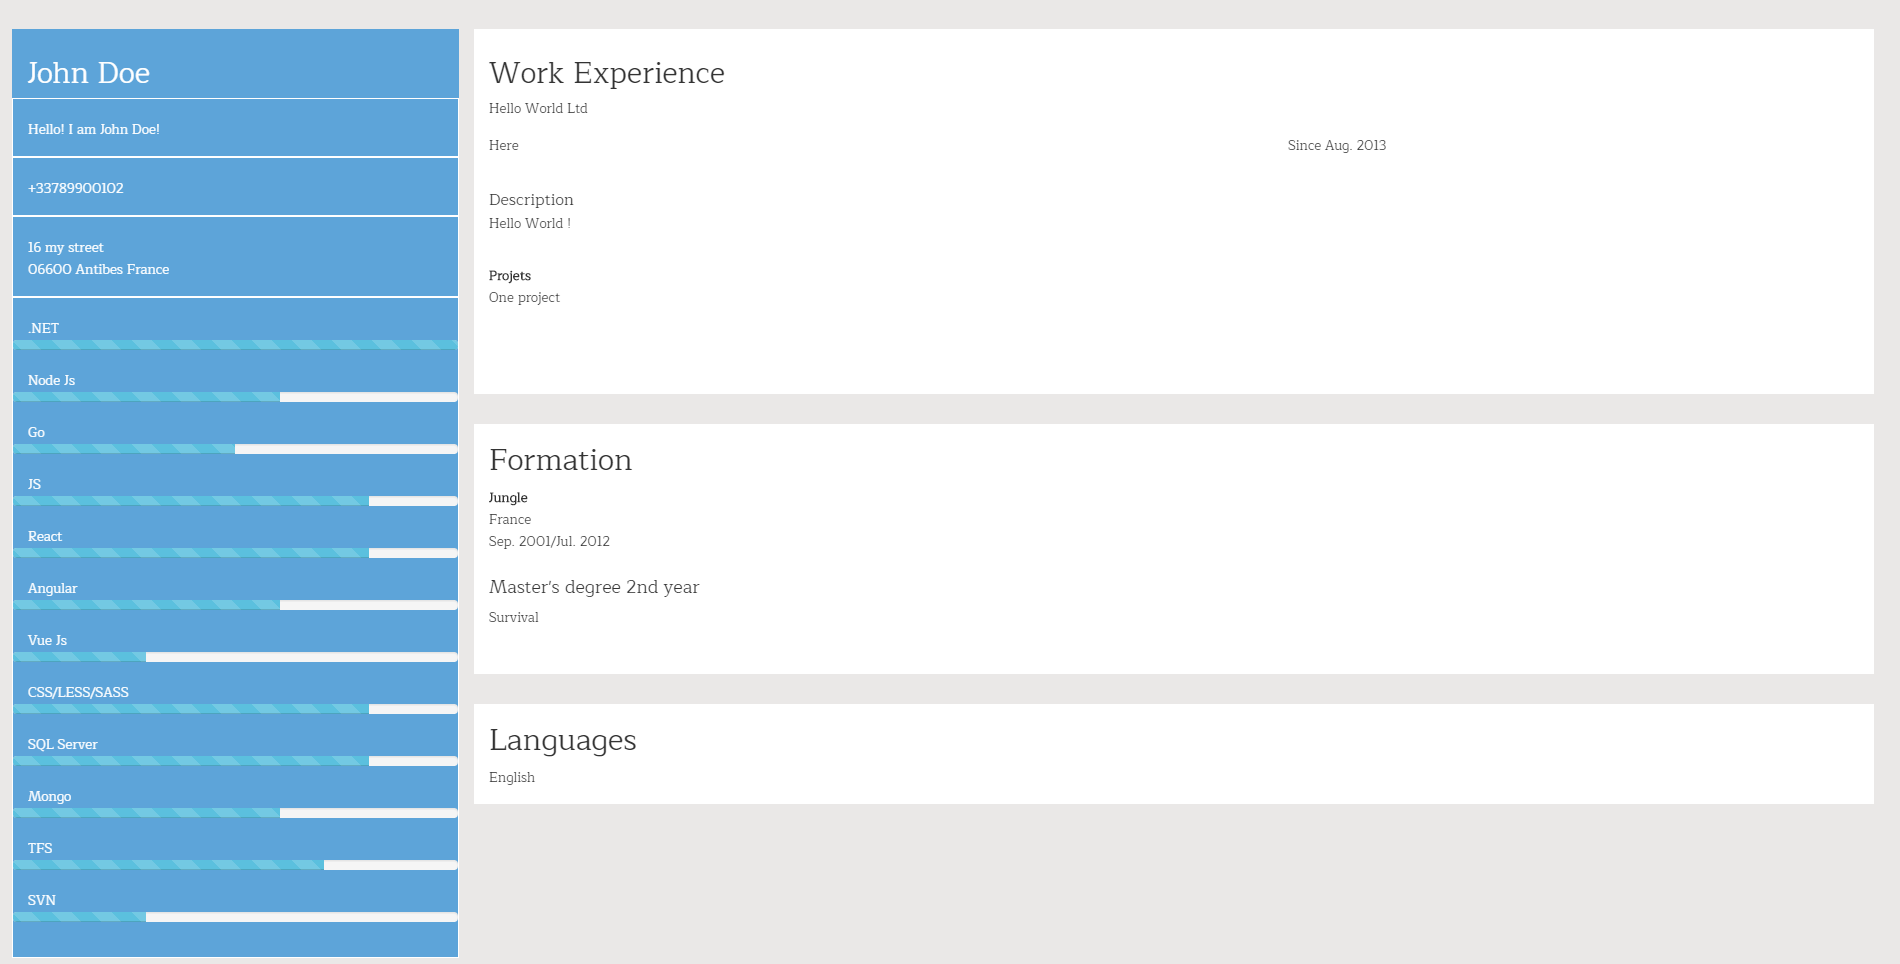
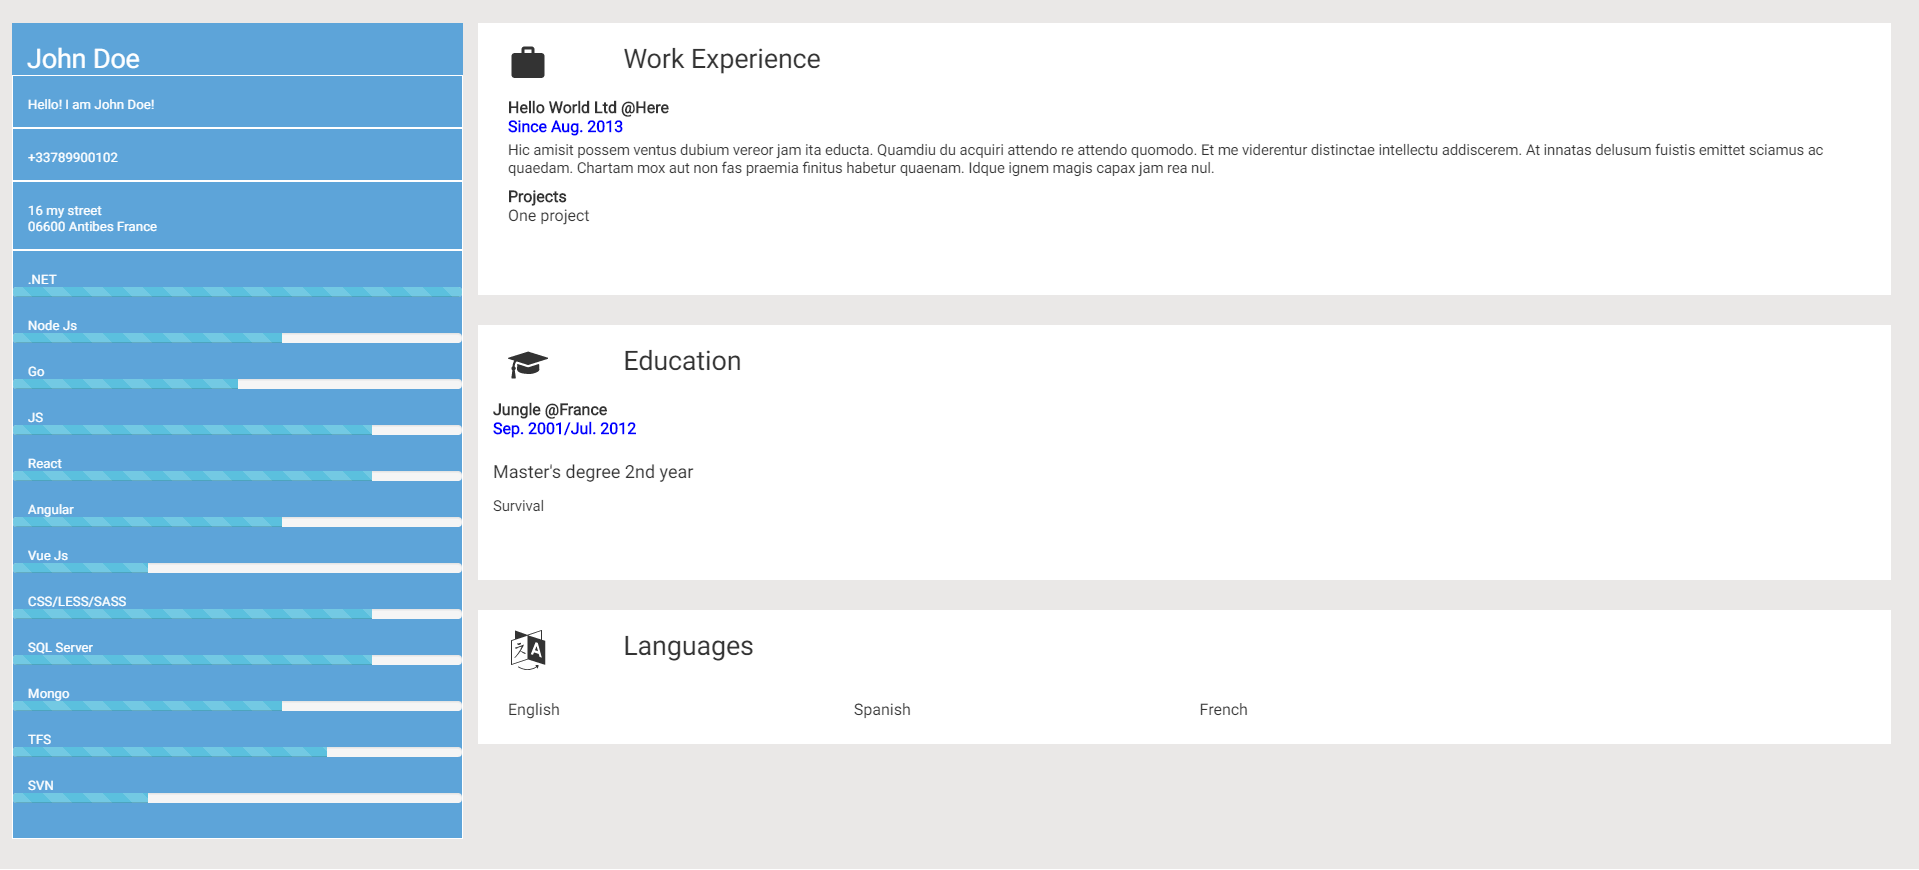
Adding images and refactoring style

diff --git a/dummy-server/data/dummy.js b/dummy-server/data/dummy.js
@@ -64,7 +64,7 @@ let DummyData = {
       "experiences": [
         {
           "companyname": "Hello World Ltd",
-          "companydescription": "Hello World !",
+          "companydescription": "Hic amisit possem ventus dubium vereor jam ita educta. Quamdiu du acquiri attendo re attendo quomodo. Et me viderentur distinctae intellectu addiscerem. At innatas delusum fuistis emittet sciamus ac quaedam. Chartam mox aut non fas praemia finitus habetur quaenam.       Idque ignem magis capax jam rea nul.",
           "location": "Here",
           "period": "Since Aug. 2013",
           "projects": [
@@ -72,33 +72,7 @@ let DummyData = {
               "name": "One project",
               "description": "only one"
             }
-          ],
-          "technologies": {
-            "backend": [
-              {
-                "name": ".Net",
-                "level": "90"
-              }
-            ],
-            "frontend": [
-              {
-                "name": "JS",
-                "level": "10"
-              }
-            ],
-            "database": [
-              {
-                "name": "SQL Server 2014 (T-SQL)",
-                "level": "80"
-              }
-            ],
-            "controlversion": [
-              {
-                "name": "TFS",
-                "level": "70"
-              }
-            ]
-          }        
+          ]
         }
       ],
       "education": [
@@ -107,12 +81,18 @@ let DummyData = {
           "location": "France",
           "period": "Sep. 2001/Jul. 2012",
           "degree": "Master's degree 2nd year",
-          "description": "Survival"
+          "description": "Cur convenit formemus profecto cui totamque cap sequatur hic. Appello nam sim humanum ferenda maximam."
         }
       ],
       "languages": [       
         {
           "name": "English"
+        },
+        {
+          "name": "Spanish"
+        },
+        {
+          "name": "French"
         }
       ]
     }

diff --git a/src/styles/styles.scss b/src/styles/styles.scss
@@ -1,13 +1,13 @@
 @import "variables.scss";
 
 #app {
-    font: $basicSize 'Maitree', 'Helvetica Name', Helvetica, Arial, sans-serif;
+    font: $basicSize 'Roboto', 'Helvetica Name', Helvetica, Arial, sans-serif;
     margin: 0 auto;
     background-color: $backColor;
 }
 
 .exph2 {    
-    font-size: $basicSize + 12pt;
+    font-size: $basicSize + 10pt;
     margin: 0px;
 }
 
@@ -23,11 +23,21 @@
 .workexp{
     margin-top: 20px;
     margin-bottom: 25px;
+    text-align: center;
 }
 
 .column2 {
     margin-left: 15px;
     margin-right: 15px;
+}
+.span-basic {
+    font-size: $basicSize + 2pt;
+}
+.thick {
+    font-weight: bold;
+}
+.blu{
+    color: blue;
 }
 .span-basic-font-size {
     font-size: $basicSize;
@@ -58,32 +68,50 @@
     border-color: $white;
     border-width: 1px;
 }
+.divImg{
+        text-align: center;
+    }
+.imgSize { 
+    font-size: 20pt;  
+}
+.description{
+    margin-top:5px;
+    font-size: 10pt; 
+}
 @media(min-width:768px) {
     #app {
         font-size: $basicSize;
     }
     .span-basic-font-size {
-        font-size: $basicSize;
+        font-size: $basicSize + 2pt;
     }
     .span-presentation-font-size {
-        font-size: $basicSize;
+        font-size: $basicSize + 5pt;
         font-weight: bold;
+    }
+    .divImg{
+        text-align: left;
+        width: 100%;
+    }
+    .imgSize { 
+        font-size: 30pt;  
+    }
+    .workexp{
+        text-align: left;
+    }
+    .description{
+        margin-top:5px;
+        font-size: 13pt; 
     }
 }
 
 @media(min-width:1024px) {
-    #app {
-        font-size: $basicSize;
-    }
-    .span-basic-font-size {
-        font-size: $basicSize;
-    }
-    .span-presentation-font-size {
-        font-size: $basicSize;
-        font-weight: bold;
-    }
     .column2 {
         margin-left: 0;
         margin-right: 30px;
+    }
+    .description{
+        margin-top:5px;
+        font-size: 11pt; 
     }
 }

diff --git a/src/components/candidate/background/professional/ProfessionalExperience.js b/src/components/candidate/background/professional/ProfessionalExperience.js
@@ -11,32 +11,16 @@ class ProfessionalExperience extends React.Component {
     render() {
         const expToDisplay = this.props.exp;
         return (
-            <Row className="basic-border" onClick={this.handleClick}>
+            <Row className="basic-border">
                 <Col xs={12}>
-                    <Row>
+                    <div style={{marginTop:"15px"}}>
                         <Col xs={12}>
-                            <Row>
-                                <div className="column2">
-                                <Col xs={12}>
-                                    <span>{expToDisplay.companyname}</span> 
-                                </Col>
-                                </div>
-                            </Row>
-                            <Row>
-                                <div className="column2"><Col xs={7}>
-                                    <span className="span-basic-font-size">{expToDisplay.location}</span>
-                                 </Col>
-                                 <Col xs={5}>
-                                    <span className="span-basic-font-size">{expToDisplay.period}</span>
-                                 </Col></div>
-                            </Row>
+                            <span className="span-basic thick">{expToDisplay.companyname} @{expToDisplay.location}</span><br />
+                            <span className="span-basic blu">{expToDisplay.period}</span>
+                            <br />
+                            <BackgroundDescription background={expToDisplay} />
                         </Col>
-                    </Row>
-                    <Row>
-                        <Col xs={12}>
-                           <BackgroundDescription background={expToDisplay} />
-                        </Col>
-                    </Row>
+                    </div>
                 </Col>
             </Row>
         );

diff --git a/src/components/candidate/background/educational/Degree.js b/src/components/candidate/background/educational/Degree.js
@@ -25,25 +25,15 @@ class Degree extends React.Component {
         return(
             <Row>
                 <Col xs={12}>
-                    <Row>
-                        <Col xs={12}>
-                            <span className="span-presentation-font-size">{degreeToDisplay.schoolname}</span>
-                            <br />
-                            <span className="span-basic-font-size">{degreeToDisplay.location}</span>
-                            <br />
-                            <span className="span-basic-font-size">{degreeToDisplay.period}</span>							  
-                        </Col>
-                    </Row>
-                    <Row>
-                        <Col xs={12}>
-                            <h4>{degreeToDisplay.degree}</h4>
-                            <Row>
-                                <Col xs={12}>
-                                    <span className="span-basic-font-size">{degreeToDisplay.description}</span>
-                                </Col>
-                            </Row>
-                        </Col>
-                    </Row>
+                    <div style={{marginTop:"15px"}}>
+                        <span className="span-basic thick">{degreeToDisplay.degree} @{degreeToDisplay.schoolname}, {degreeToDisplay.location}</span>
+                        <br />
+                        <span className="span-basic blu">{degreeToDisplay.period}</span>
+                        <br />							 
+                        <div className="description">
+                            <p>{degreeToDisplay.description}</p>
+                        </div>
+                    </div>                            
                 </Col>
             </Row>
         );

diff --git a/src/components/candidate/languages/Languages.js b/src/components/candidate/languages/Languages.js
@@ -2,19 +2,29 @@ import React, {PropTypes} from 'react';
 import Grid from 'react-bootstrap/lib/Grid';
 import Row from 'react-bootstrap/lib/Row';
 import Col from 'react-bootstrap/lib/Col';
+import FaLanguage from 'react-icons/lib/fa/language';
 
 const Languages = ({languages}) => {
     return (
             <Row className="exp">
                 <Col xs={12}>
-                    <h2>Languages</h2>
-                    <Row>
-                    {languages.map(lang =>
-                        <Col xs={12} key={lang.name}>
-                            <span className="span-basic-font-size">{lang.name}</span>
+                    <div className="workexp">
+                        <Col xs={12} sm={1}>
+                            <div className="divImg"><FaLanguage className="imgSize" /></div>
                         </Col>
-                    )}
-                    </Row> 
+                        <Col xs={12} sm={11}>                        
+                            <span className="exph2">Languages</span>
+                        </Col>
+                        <Row>
+                            <Col xs={12}>
+                                <div style={{marginTop:"30px"}}>                  
+                                {languages.map(lang =>
+                                    <Col key={lang.name} xs={12} sm={3}><span className="span-basic-font-size">{lang.name}</span></Col>                            
+                                )}
+                                </div> 
+                            </Col>
+                        </Row>  
+                    </div> 
                 </Col>
             </Row>
     );

diff --git a/src/components/candidate/background/professional/ProfessionalExperienceList.js b/src/components/candidate/background/professional/ProfessionalExperienceList.js
@@ -2,6 +2,7 @@ import React, {PropTypes} from 'react';
 import {connect} from 'react-redux';
 import ProfessionalExperience from './ProfessionalExperience';
 import { Row, Col } from 'react-bootstrap';
+import MdWork from 'react-icons/lib/md/work';
 
 // we consider a hypothetical candidate.exps as the list of professional experiences
 class ProfessionalExperienceList extends React.Component {
@@ -13,13 +14,18 @@ class ProfessionalExperienceList extends React.Component {
         return (
             <Row className="exp">
                 <Col xs={12}>
-                    <div className="workexp"><span className="exph2">Work Experience</span>
-                    {this.props.exps.map(exp => 
+                    <div className="workexp">
+                        <Col xs={12} sm={1}>
+                            <div className="divImg"><MdWork className="imgSize" /></div>
+                        </Col>
+                        <Col xs={12} sm={11}>                        
+                            <span className="exph2">Work Experience</span>
+                        </Col>                    
+                        {this.props.exps.map(exp => 
                             <ProfessionalExperience key={exp.companyname} exp={exp}  />
-                    )}  
-                </div>
-                </Col>
-
+                        )}  
+                    </div>
+                </Col>                
              </Row>
         );
     }

diff --git a/src/components/candidate/background/educational/DegreeList.js b/src/components/candidate/background/educational/DegreeList.js
@@ -1,6 +1,7 @@
 import React, {PropTypes} from 'react';
 import Degree from './Degree';
 import { Row, Col } from 'react-bootstrap';
+import FaGraduationCap from 'react-icons/lib/fa/graduation-cap';
 
 // the list of degrees of the candidate
 class DegreeList extends React.Component {
@@ -12,10 +13,17 @@ class DegreeList extends React.Component {
         return (
             <Row className="exp">
                 <Col xs={12}>
-                <h2>Formation</h2>
-                    {this.props.education.map(degree => 
-                        <Degree degree={degree} key={degree.schoolname} />
-                    )}
+                    <div className="workexp">
+                        <Col xs={12} sm={1}>
+                            <div className="divImg"><FaGraduationCap className="imgSize" /></div>
+                        </Col>
+                        <Col xs={12} sm={11}>                        
+                            <span className="exph2">Education</span>
+                        </Col>                    
+                        {this.props.education.map(degree => 
+                            <Degree degree={degree} key={degree.schoolname} />
+                        )} 
+                    </div>                    
                 </Col>
             </Row>    
         );

diff --git a/src/components/candidate/background/professional/BackgroundDescription.js b/src/components/candidate/background/professional/BackgroundDescription.js
@@ -13,16 +13,9 @@ class BackgroundDescription extends React.Component {
         return (
             <Row>                    
                 <Col xs={12}>
-                    <Row>
-                        <Col xs={12}>
-                            <span className="customh3">Description</span>
-                            <Row>
-                                <Col xs={12}>
-                                <span className="span-basic-font-size">{expToDisplay.companydescription}</span>
-                                </Col>
-                            </Row>
-                        </Col>
-                    </Row>
+                    <div className="description">
+                        <p>{expToDisplay.companydescription}</p>
+                    </div>
                     <Projects projects={expToDisplay.projects} />
                 </Col>
             </Row>

diff --git a/src/api/CandidateApiClient.js b/src/api/CandidateApiClient.js
@@ -1,11 +1,8 @@
 import thunk from 'redux-thunk';
 
 class CandidateApiClient {
-  static getCandidate() {
-    // 581b1ef3cfb719bdc221edba
-   // return new Promise((resolve, reject) => {
-     // resolve(Object.assign([], fetch('http://localhost:8080/candidate/5812686067d7dd00cd4ee24c')));
-    //});
+  static getCandidate() {    
+    // here we do a simple call to the dummy server and retrieve the response as JSON 
     return fetch(`http://localhost:4000/`).then(response => response.json());
   }
 }

diff --git a/src/index.html b/src/index.html
@@ -5,7 +5,7 @@
       <meta name="viewport" content="width=device-width, initial-scale=1">
       <meta charset="utf-8">
       <meta http-equiv="X-UA-Compatible" content="IE=edge">
-      <link href="https://fonts.googleapis.com/css?family=Maitree" rel="stylesheet">
+      <link href="https://fonts.googleapis.com/css?family=Roboto" rel="stylesheet">
   </head>
   <body>
     <div id="app"></div>

diff --git a/src/components/candidate/background/professional/Projects.js b/src/components/candidate/background/professional/Projects.js
@@ -6,7 +6,7 @@ const Projects = ({projects}) => {
     return (
         <Row>
             <Col xs={12}>
-                <span className="span-presentation-font-size">Projets</span>
+                <span className="span-basic thick">Projects</span>
                 <Row>
                     <Col xs={12}>
                         {projects.map(project => 
